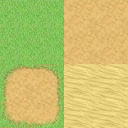
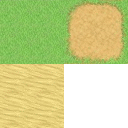
Terrain not quite done

diff --git a/Rose/Rose/Terrain.cpp b/Rose/Rose/Terrain.cpp
@@ -13,13 +13,30 @@ void Terrain::TerrainChunk::buildTerrain() {
 	tilePosition = new float[tilesPerChunk*tilesPerChunk*2];
 	tileTexture = new int[tilesPerChunk*tilesPerChunk];
 
+	for (int i = 0; i < tilesPerChunk; i++) {
+		for (int j = 0; j < tilesPerChunk; j++) {
+			tilePosition[2 * i*tilesPerChunk + 2 * j + 0] = i*1.1f;
+			tilePosition[2 * i*tilesPerChunk + 2 * j + 1] = j*1.1f;
+
+			tileTexture[i*tilesPerChunk + j] = rand() % 3;
+
+		}
+	}
+
+	float * dividedTilePositions = new float[tilesPerChunk*tilesPerChunk * 4 * 2];
+	int * dividedTileTextures = new int[tilesPerChunk*tilesPerChunk * 4];
+
 	int pptr = 0;
 	int vptr = 0;
-	for (int i = 0; i < tilesPerChunk*tilesPerChunk; i++) {
-		tilePosition[pptr++] = i/tilesPerChunk;
-		tilePosition[pptr++] = i%tilesPerChunk;
+	for (int i = 0; i < tilesPerChunk; i++) {
+		for (int j = 0; j < tilesPerChunk; j++) {
+			for (int k = 0; k < 4; k++) {
+				dividedTilePositions[pptr++] = i*3.0f + 1.1*(k/2);
+				dividedTilePositions[pptr++] = j*3.0f + 1.1*(k%2);
 
-		tileTexture[vptr++] = rand()%3;
+				dividedTileTextures[vptr++] = tileTexture[i*tilesPerChunk + j];
+			}
+		}
 	}
 
 	float vertices[] = { 0,0, 0,1, 1,1 , 1,1, 1,0, 0,0 };
@@ -44,12 +61,12 @@ void Terrain::TerrainChunk::buildTerrain() {
 	glVertexAttribPointer(1, 2, GL_FLOAT, false, 0, 0);
 
 	glBindBuffer(GL_ARRAY_BUFFER, VBO_inst_pos);
-	glBufferData(GL_ARRAY_BUFFER, pptr*4, tilePosition, GL_STATIC_DRAW);
+	glBufferData(GL_ARRAY_BUFFER, tilesPerChunk * tilesPerChunk * 4 * 2 * 4, dividedTilePositions, GL_STATIC_DRAW);
 	glVertexAttribPointer(2, 2, GL_FLOAT, false, 0, 0);
 	glVertexAttribDivisor(2, 1);
 
 	glBindBuffer(GL_ARRAY_BUFFER, VBO_inst_tex);
-	glBufferData(GL_ARRAY_BUFFER, vptr*4, tileTexture, GL_STATIC_DRAW);
+	glBufferData(GL_ARRAY_BUFFER, tilesPerChunk * tilesPerChunk * 4*4, dividedTileTextures, GL_STATIC_DRAW);
 	glVertexAttribPointer(3, 1, GL_FLOAT, false, 0, 0);
 	glVertexAttribDivisor(3, 1);
 
@@ -60,6 +77,9 @@ void Terrain::TerrainChunk::buildTerrain() {
 
 	glBindBuffer(GL_ARRAY_BUFFER, 0);
 	glBindVertexArray(0);
+
+	delete[] dividedTilePositions;
+	delete[] dividedTileTextures;
 
 }
 
@@ -73,6 +93,6 @@ void Terrain::TerrainChunk::draw() {
 
 	glBindVertexArray(VAO);
 
-	glDrawArraysInstanced(GL_TRIANGLES, 0, 6, tilesPerChunk*tilesPerChunk);
+	glDrawArraysInstanced(GL_TRIANGLES, 0, 6, tilesPerChunk*tilesPerChunk*4);
 
 }

diff --git a/Rose/Rose/Terrain.h b/Rose/Rose/Terrain.h
@@ -8,6 +8,25 @@ class Terrain
 {
 public:
 
+	enum TileType {
+
+		TOP_RIGHT_CORNER,
+		TOP_LEFT_CORNER,
+		BOT_RIGHT_CORNER,
+		BOT_LEFT_CORNER,
+
+		TOP_PATH,
+		BOT_PATH,
+		LEFT_PATH,
+		RIGHT_PATH,
+
+		DIRT,
+
+
+
+	};
+
+
 	class TerrainChunk;
 
 	std::vector<TerrainChunk*> terrain;
@@ -17,8 +36,8 @@ public:
 	float tileScale;
 
 	Terrain() {
-		tilesPerChunk = 8;
-		tileScale = 20.0f;
+		tilesPerChunk = 4;
+		tileScale = 10.0f;
 	};
 
 	void addTerrain() {
